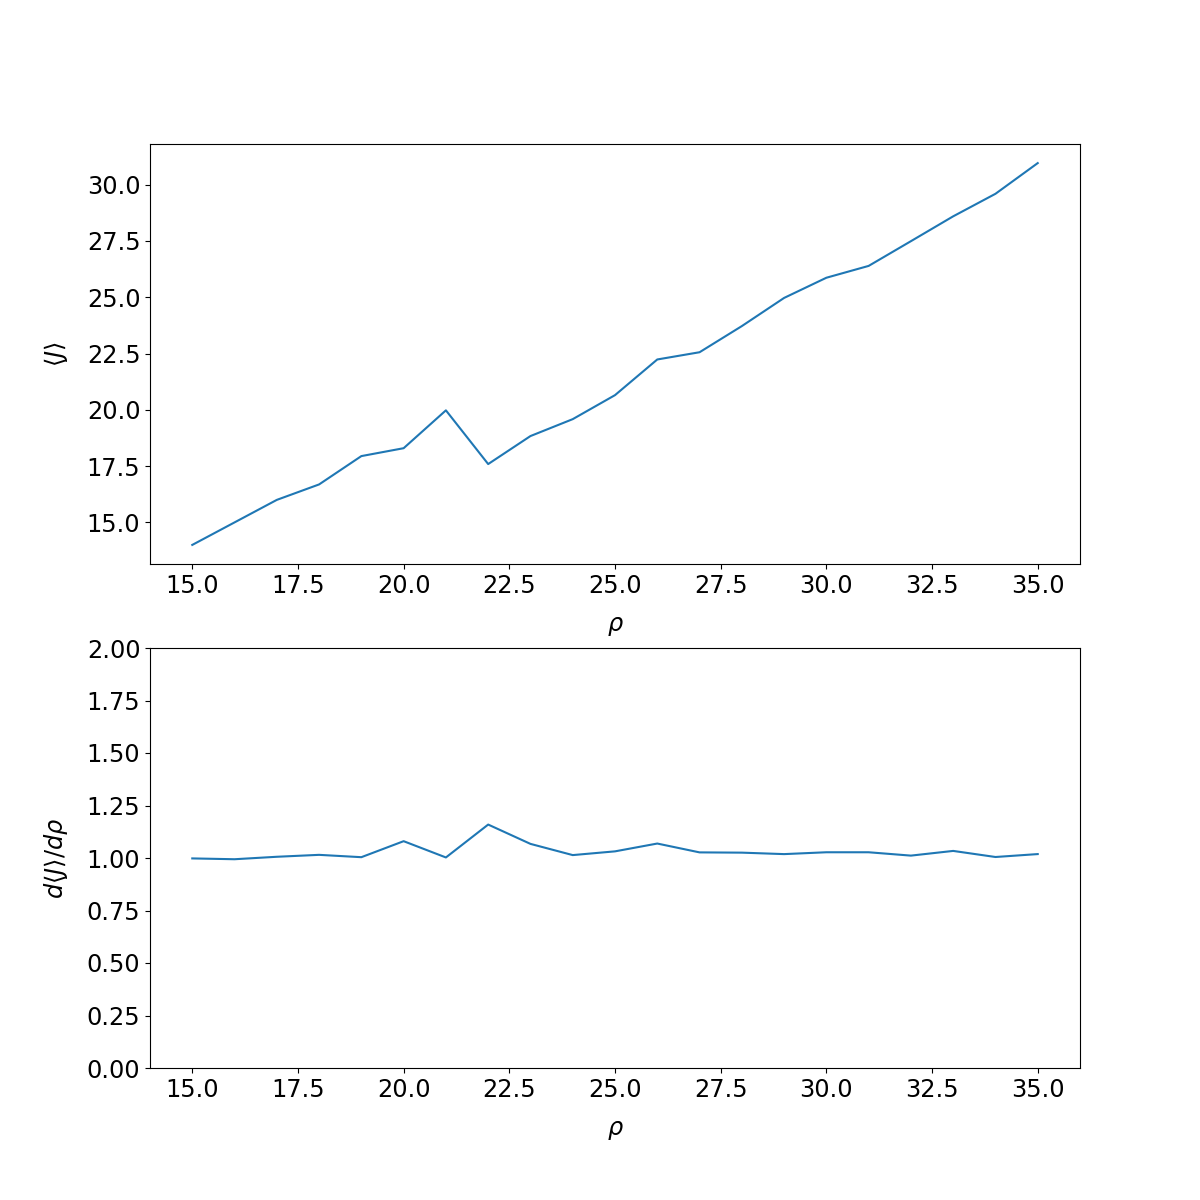
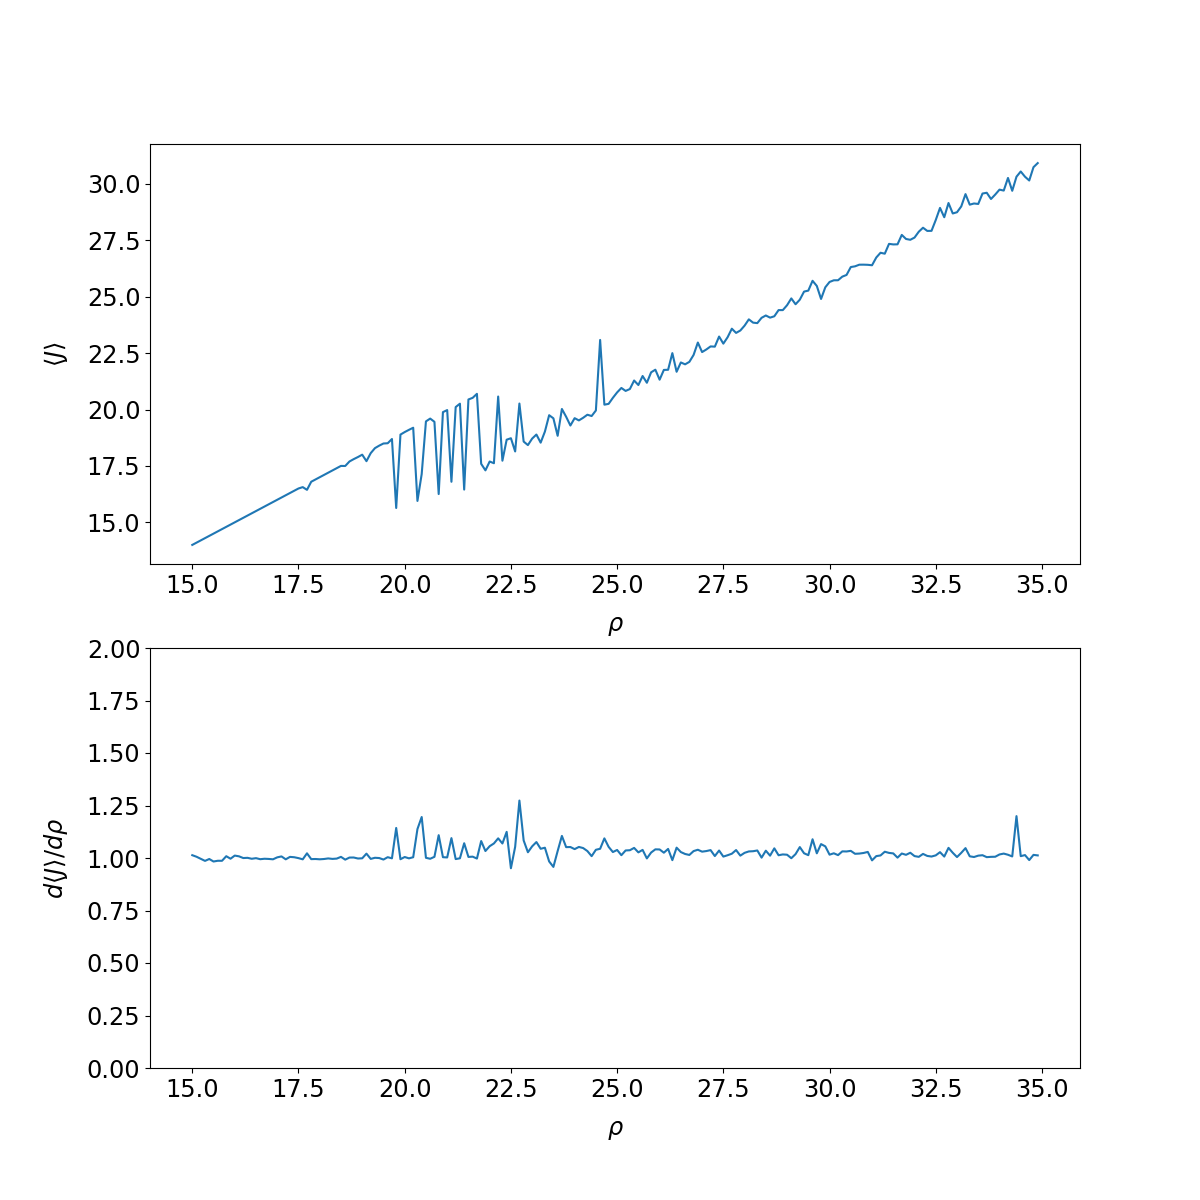
updated figures

diff --git a/app_lorenz.py b/app_lorenz.py
@@ -7,10 +7,10 @@ import matplotlib.pyplot as plt
 from nilss import *
 
 
-par = "beta"
-par_lb = 1
-par_ub = 6
-step_size = 0.5
+par = "sigma"
+par_lb = 5
+par_ub = 15
+step_size = 0.1
 rho = 28
 sigma = 10
 beta = 8. / 3.
